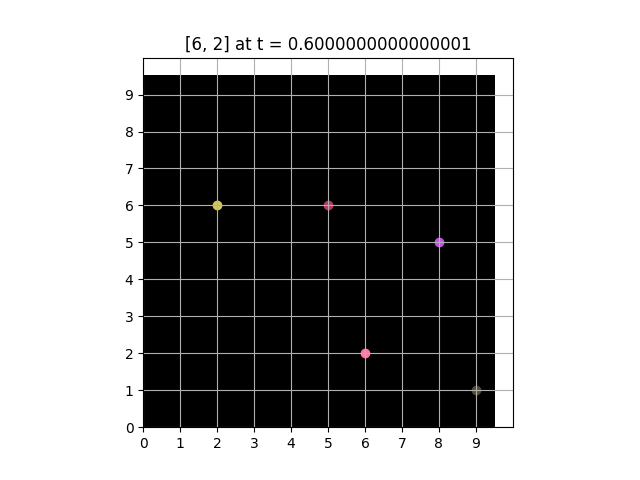
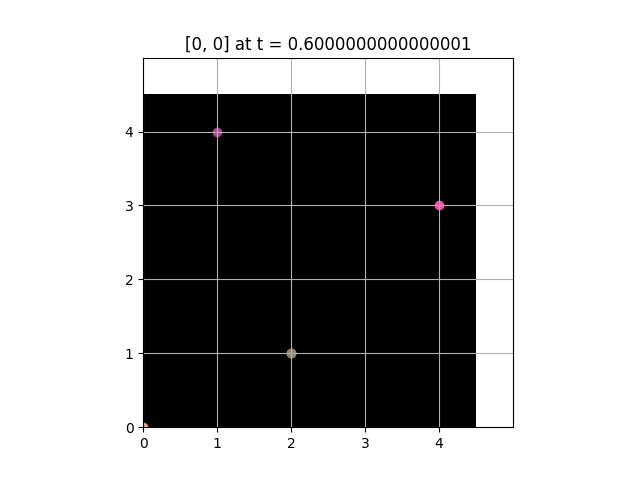
Frame order fixed in vis. Robots now sample multiple locations, but take it in turns to move (bug to be fixed)

diff --git a/multi_robot_spatial_sampling_prototype.py b/multi_robot_spatial_sampling_prototype.py
@@ -9,8 +9,8 @@ import matplotlib.pyplot as plt
 from astar_python import Astar
 from gaussian import makeGaussian
 
-world_width = 10
-world_height = 10
+world_width = 5
+world_height = 5
 gaussian = makeGaussian(world_height)
 sampled = np.zeros((world_width, world_height))
 movement_matrix = np.ones((world_width, world_height))
@@ -37,14 +37,14 @@ def draw_map(robots, env):
     plt.grid()
     plt.title(str(robot.pos) + " at t = " + str(env.now))
     # plt.show()
-    plt.savefig(figure_dir + "t_" + str(env.now).replace(".", "_"))
+    plt.savefig(figure_dir + "t_" + str(float(env.now)).replace(".", "_"))
 
 
 class Robot:
-    def __init__(self, start_pos, rob_id):
+    def __init__(self, start_pos, rob_id, env):
         self.pos = start_pos
         self.id = rob_id
-        self.goal_pos = [0, 0]
+        self.task = None
         self.color = [random.randrange(50, 256) / 255, random.randrange(50, 256) / 255,
                       random.randrange(50, 256) / 255]
 
@@ -52,7 +52,6 @@ class Robot:
         path = a_star.run(self.pos, sample_location)
         for s in range(0, len(path)):
             self.pos = path[s]
-            # print("\n", str(self.pos), "at t =", str(env.now))
             draw_map(robots, env)
 
             if s != len(path) - 1:
@@ -75,33 +74,41 @@ def main():
         os.remove(f)
 
     env = simpy.Environment()
-    # rob_0 = Robot([0, 0], 0)
-    # rob_1 = Robot([world_width - 1, world_height - 1], 1)
     global robots
     num_robots = 5
     robots = [Robot([random.randrange(0, world_width),
-                     random.randrange(0, world_height)], r) for r in range(0, num_robots)]
+                     random.randrange(0, world_height)], r, env) for r in range(0, num_robots)]
 
+    env.process(multi_robot_sampling(env))
+    env.run()
+
+    # for robot in robots:
+    #     sample_location = [random.randrange(0, world_width), random.randrange(0, world_height)]
+    #     while sample_location in sample_locations:
+    #         sample_location = [random.randrange(0, world_width), random.randrange(0, world_height)]
+    #     sample_locations.append(sample_location)
+    #     env.process(robot.move_robot_and_sample(env, sample_location))
+
+
+def multi_robot_sampling(env):
     sample_locations = []
 
-    for robot in robots:
-        sample_location = [random.randrange(0, world_width), random.randrange(0, world_height)]
-        while sample_location in sample_locations:
+    while len(sample_locations) < (world_width*world_height) / 4:
+        for robot in robots:
             sample_location = [random.randrange(0, world_width), random.randrange(0, world_height)]
-        sample_locations.append(sample_location)
-        env.process(robot.move_robot_and_sample(env, sample_location))
-    # sample_locations = []
-    #
-    # while len(sample_locations) < (world_width*world_height) / 4:
-    #     for robot in robots:
-    #         sample_location = [random.randrange(0, world_width), random.randrange(0, world_height)]
-    #         while sample_location in sample_locations:
-    #             sample_location = [random.randrange(0, world_width), random.randrange(0, world_height)]
-    #         sample_locations.append(sample_location)
-    #         env.process(robot.move_robot_and_sample(env, sample_location))
-    env.run()
-    print("Simulation complete at t =", str(env.now))
-    
+            while sample_location in sample_locations:
+                sample_location = [random.randrange(0, world_width), random.randrange(0, world_height)]
+            if robot.task is None:
+                sample_locations.append(sample_location)
+                robot.task = env.process(robot.move_robot_and_sample(env, sample_location))
+                yield robot.task
+            elif robot.task is not None:
+                # print(robot.task.processed, env.now)
+                if robot.task.processed:
+                    sample_locations.append(sample_location)
+                    robot.task = env.process(robot.move_robot_and_sample(env, sample_location))
+                    yield robot.task
+
 
 if __name__ == "__main__":
     # main()

diff --git a/visualise_sim.py b/visualise_sim.py
@@ -1,12 +1,20 @@
 __author__ = "Laurence Roberts-Elliott"
 import glob
+import ntpath
+
 import matplotlib.pyplot as plt
 
 old_figures = set(glob.glob('sim_visualisation/*'))
-
-old_figures = sorted(old_figures, key=lambda item: (int(item.partition(' ')[0])
-                                                    if item[0].isdigit() else float('inf'), item))
 print(old_figures)
+old_figures = [float(".".join(path[:-4].split("_")[2:])) for path in old_figures]
+print(old_figures)
+
+old_figures = sorted(old_figures)
+print(old_figures)
+
+old_figures = ["sim_visualisation/t_"+str(path).replace(".", "_")+".png" for path in old_figures]
+print(old_figures)
+
 for f in old_figures:
     # plt.close('all')
     fig = plt.figure()
